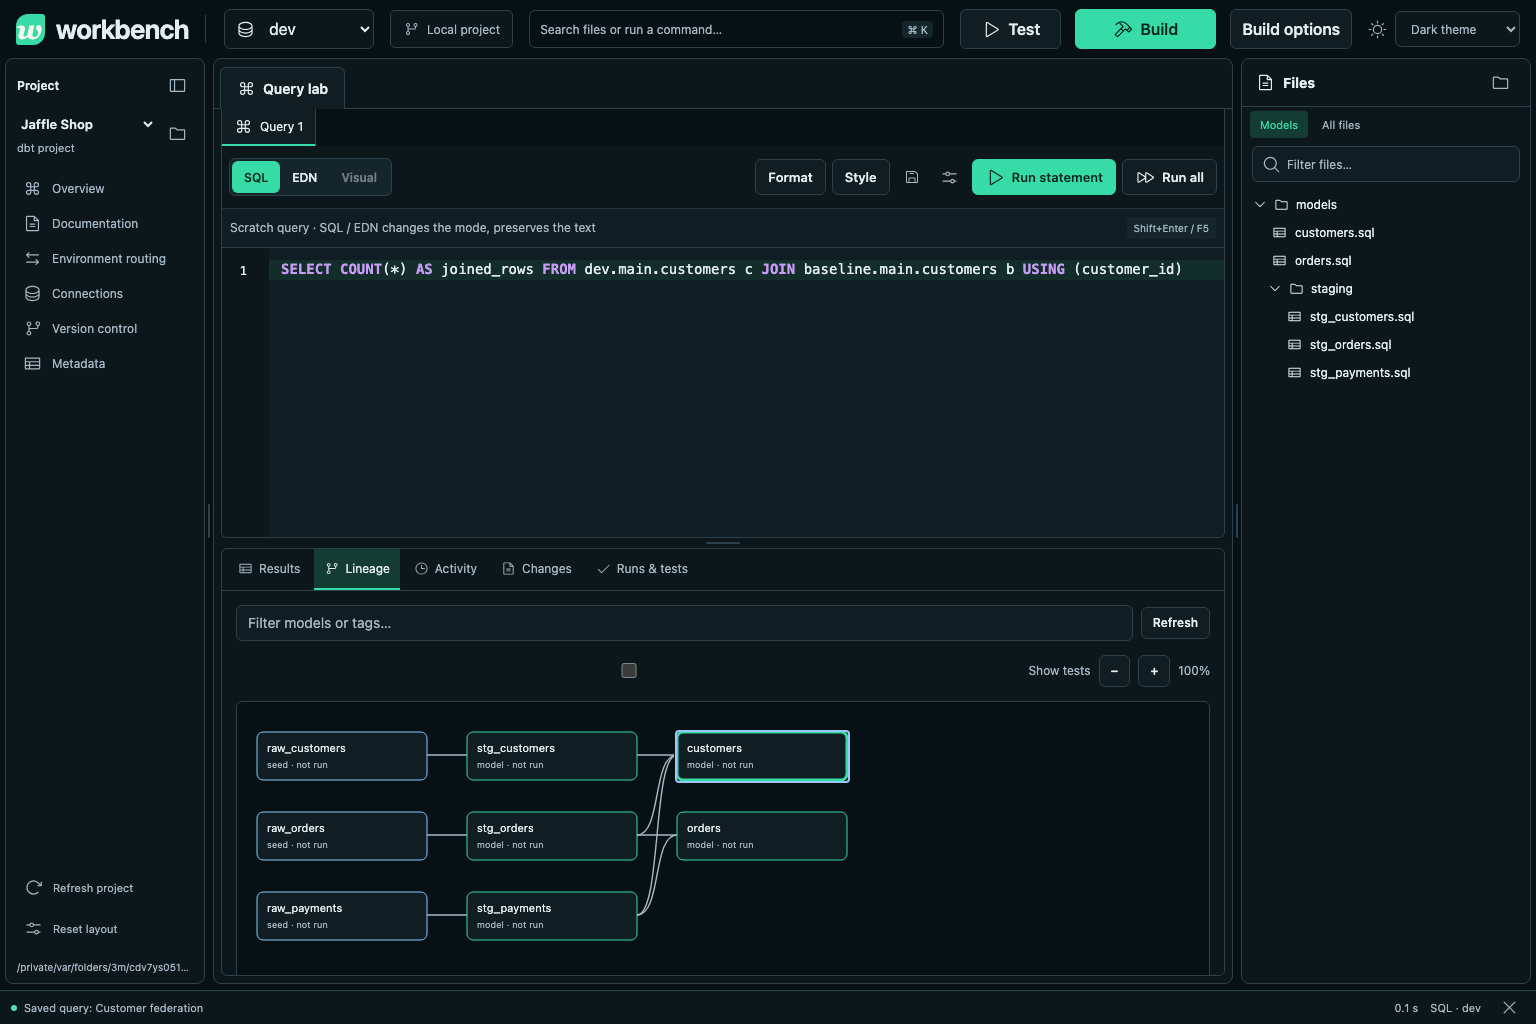
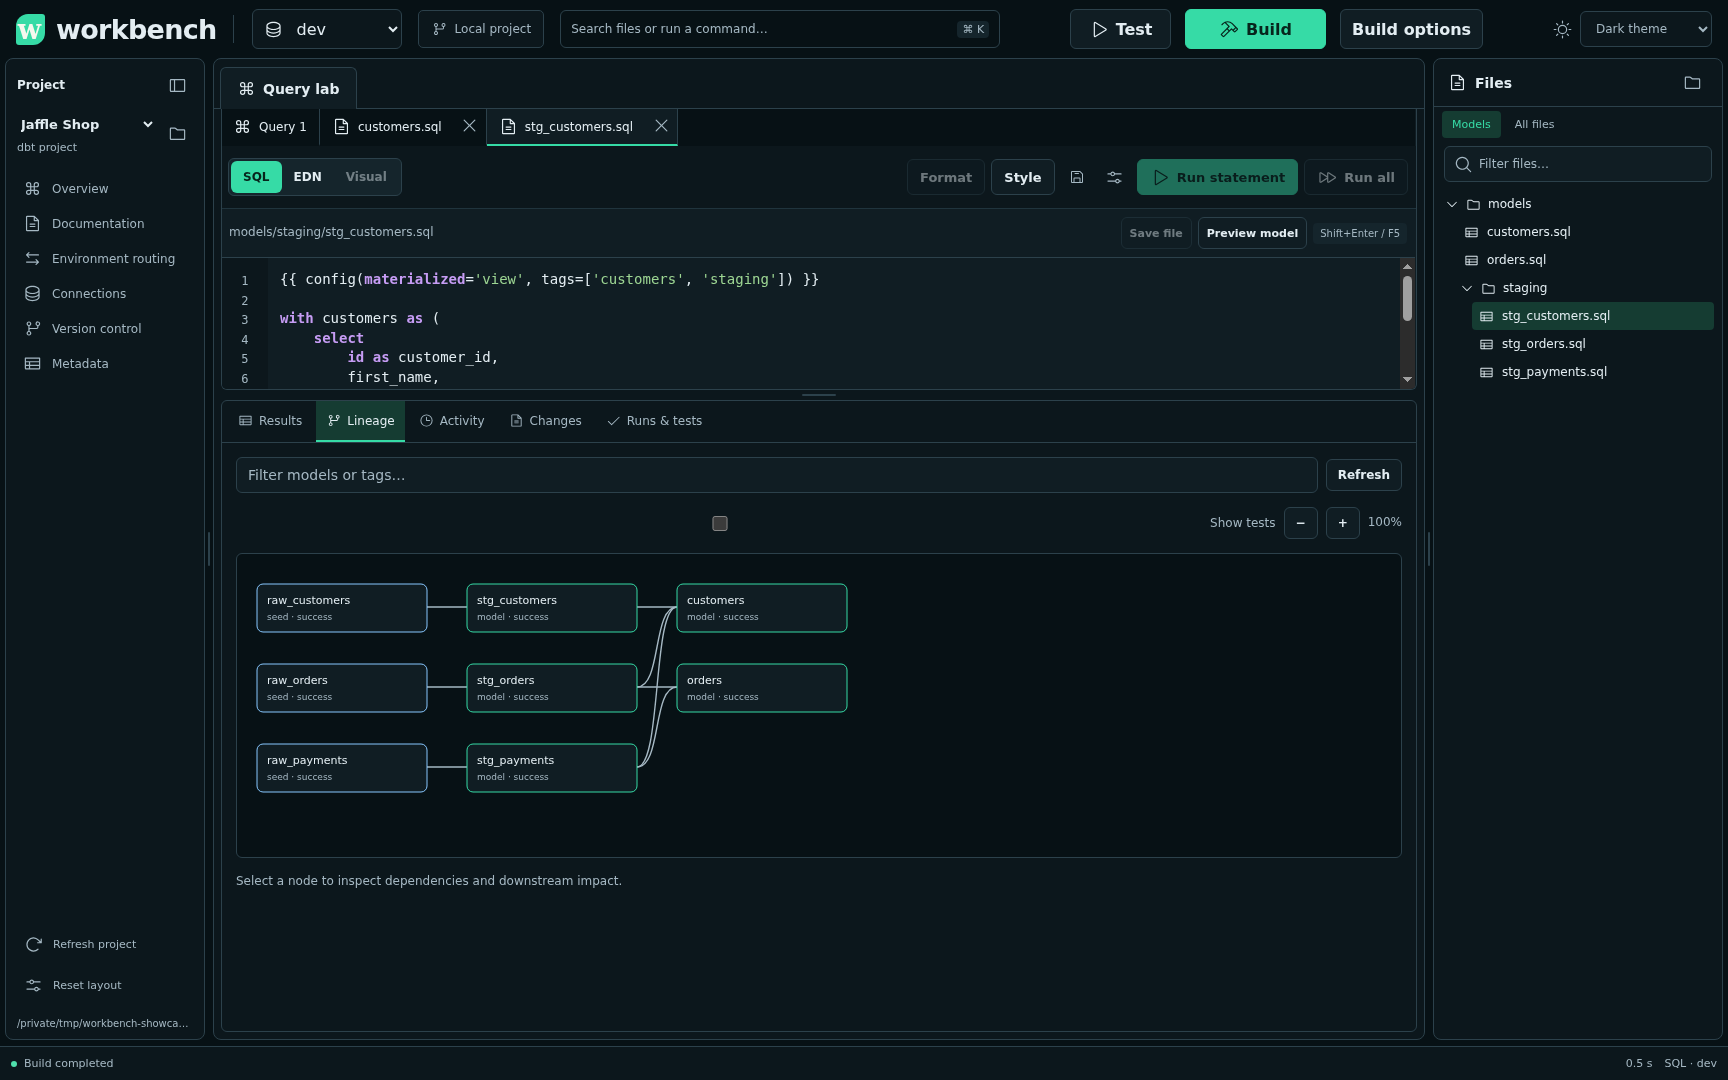
docs: show alpha workbench workflows

diff --git a/docs/verification.md b/docs/verification.md
@@ -79,12 +79,17 @@ Screenshots and geometry checks cover widths of 390, 768, 1024, 1280, and 1536 p
 They verify horizontal overflow, desktop pagination, autocomplete colors, and saved-result popovers staying inside the viewport.
 Popover checks also verify hit testing, Escape dismissal, and closed menus being hidden.
 
+An isolated Linux Chromium workspace exercised the bundled Jaffle Shop demo against a separate local macOS server.
+Manual checks covered file editing and saving, Build/Test, model previews, metadata dependencies, lineage, pane resizing, and result comparison.
+Two complete 100-row previews matched. The captures contain demo data and recorded job outcomes.
+
 ## Visual evidence
 
 The supplied [IDE reference](workbench-ide-reference.png) guides dark surfaces, mint controls, and compact tool groups.
 The [light reference](workbench-design-reference.png) guides the light palette.
-Fresh browser captures include the [dark workspace](workbench-query-dark.png), [mobile layout](workbench-query-mobile.png),
-[metadata parser](workbench-metadata.png), [comparison](workbench-results-compare.png),
+The [screenshot guide](screenshots.md) explains the Linux browser captures and their workflows.
+Browser captures include the [dark workspace](workbench-query-dark.png), [mobile layout](workbench-query-mobile.png),
+[metadata parser](workbench-metadata.png), [recorded dependencies](workbench-metadata-dependencies.png), [comparison](workbench-results-compare.png),
 [autocomplete](workbench-autocomplete-dark.png), and [Changes history](workbench-changes.png).
 The [central file editor](workbench-files.png), [lineage](workbench-lineage.png), [Overview](workbench-overview.png),
 [local Git](workbench-git.png), [charts](workbench-charts.png), and [history popover](workbench-history-menu.png) show the pane arrangement.
@@ -104,7 +109,7 @@ bun run test:browser
 Frontend lint uses:
 
 ```sh
-clj-kondo --lint frontend/src/workbench/core.cljs frontend/src/workbench/builder.cljs --config '{:lint-as {com.fulcrologic.fulcro.components/defsc clojure.core/defn com.fulcrologic.fulcro.mutations/defmutation clojure.core/defn} :config-in-call {com.fulcrologic.fulcro.mutations/defmutation {:linters {:unresolved-symbol {:level :off} :unused-binding {:level :off}}}}}'
+clj-kondo --lint frontend/src/workbench/core.cljs --config '{:lint-as {com.fulcrologic.fulcro.components/defsc clojure.core/defn com.fulcrologic.fulcro.mutations/defmutation clojure.core/defn} :config-in-call {com.fulcrologic.fulcro.mutations/defmutation {:linters {:unresolved-symbol {:level :off} :unused-binding {:level :off}}}}}'
 ```
 
 Browser evidence is written to `/tmp/workbench-clojure-browser`.

diff --git a/docs/screenshots.md b/docs/screenshots.md
@@ -1,0 +1,49 @@
+# Screenshots and workflows
+
+These captures use the bundled Jaffle Shop demo in an isolated Linux Chromium browser.
+The server runs locally. The displayed rows and dbt outcomes come from executed demo jobs.
+
+## Edit files and inspect results
+
+Open files from the right-hand explorer. Each file opens in a Query lab tab beside the scratch query.
+Use **Save file**, then **Preview model** to compile and query a dbt model.
+Results appear below the editor. The status bar stays at the viewport bottom.
+
+![Tabbed SQL files above customer results, with the project explorer on the right](workbench-query-dark.png)
+
+Drag dividers to resize panes. Collapse navigation or hide Files when you need more space.
+Layout and theme choices survive reload in the same browser.
+
+## Inspect model metadata
+
+Choose **Metadata** below Version control. Its pane follows the active file while Query lab stays visible.
+Draft parsing exposes static references, configuration, and projected field names.
+
+![Metadata beside Query lab, showing inferred fields and a raw_customers reference](workbench-metadata.png)
+
+Recorded dbt artifacts supply test outcomes and upstream and downstream resources.
+Expand these sections to inspect dependencies or open related files.
+Types remain unknown when the available artifacts do not record them.
+
+![Recorded metadata with passing tests, upstream seeds, downstream models, and compiled SQL](workbench-metadata-dependencies.png)
+
+## Explore lineage
+
+Choose **Lineage** below Query lab. Enlarge the lower pane to inspect the graph.
+Select a node to inspect dependencies and downstream impact.
+The demo graph connects three seeds to staging models and customer and order marts.
+
+![The Jaffle Shop dependency graph in the lower pane, with Query lab and Files still visible](workbench-lineage.png)
+
+## Compare saved results
+
+Open **Results > Compare**. The current result is already selected.
+Choose another saved result, then **Compare results**. Optional keys match rows by selected columns.
+Without keys, comparison preserves duplicate counts and ignores row order.
+
+![Result comparison with the current preview selected and 100 matching rows](workbench-results-compare.png)
+
+This capture compares two complete 100-row previews.
+Truncated captures cannot prove complete source equality. See [execution limits](limitations.md).
+
+See the [verification record](verification.md) for automated checks and external-service coverage.

diff --git a/README.md b/README.md
@@ -3,6 +3,12 @@
 A local dbt editor and query lab built with Clojure, ClojureScript, HoneySQL, and JDBC.
 Native dbt 2.0.5 handles project parsing, compilation, builds, and tests. The application requires no Python.
 
+**Alpha software.** Workflows and APIs can change. Use it for local development and evaluation.
+
+![dbt Workbench with tabbed SQL files, query results, and the project explorer](docs/workbench-query-dark.png)
+
+Explore [screenshots and workflows](docs/screenshots.md) for metadata, lineage, and result comparison.
+
 ## Start
 
 Install Java 21+ and the [Clojure CLI](https://clojure.org/guides/install_clojure).
